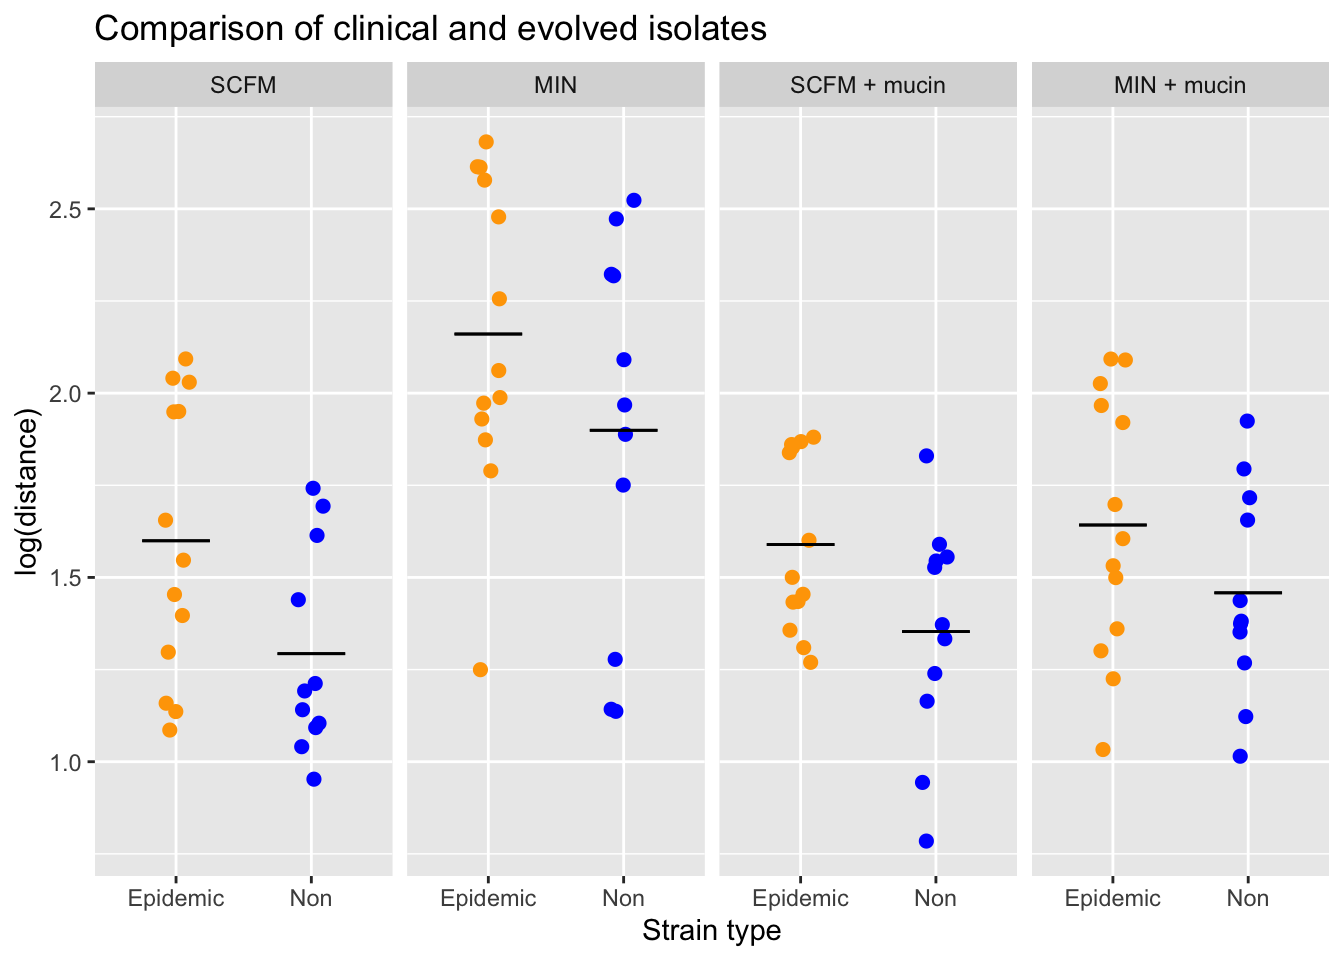
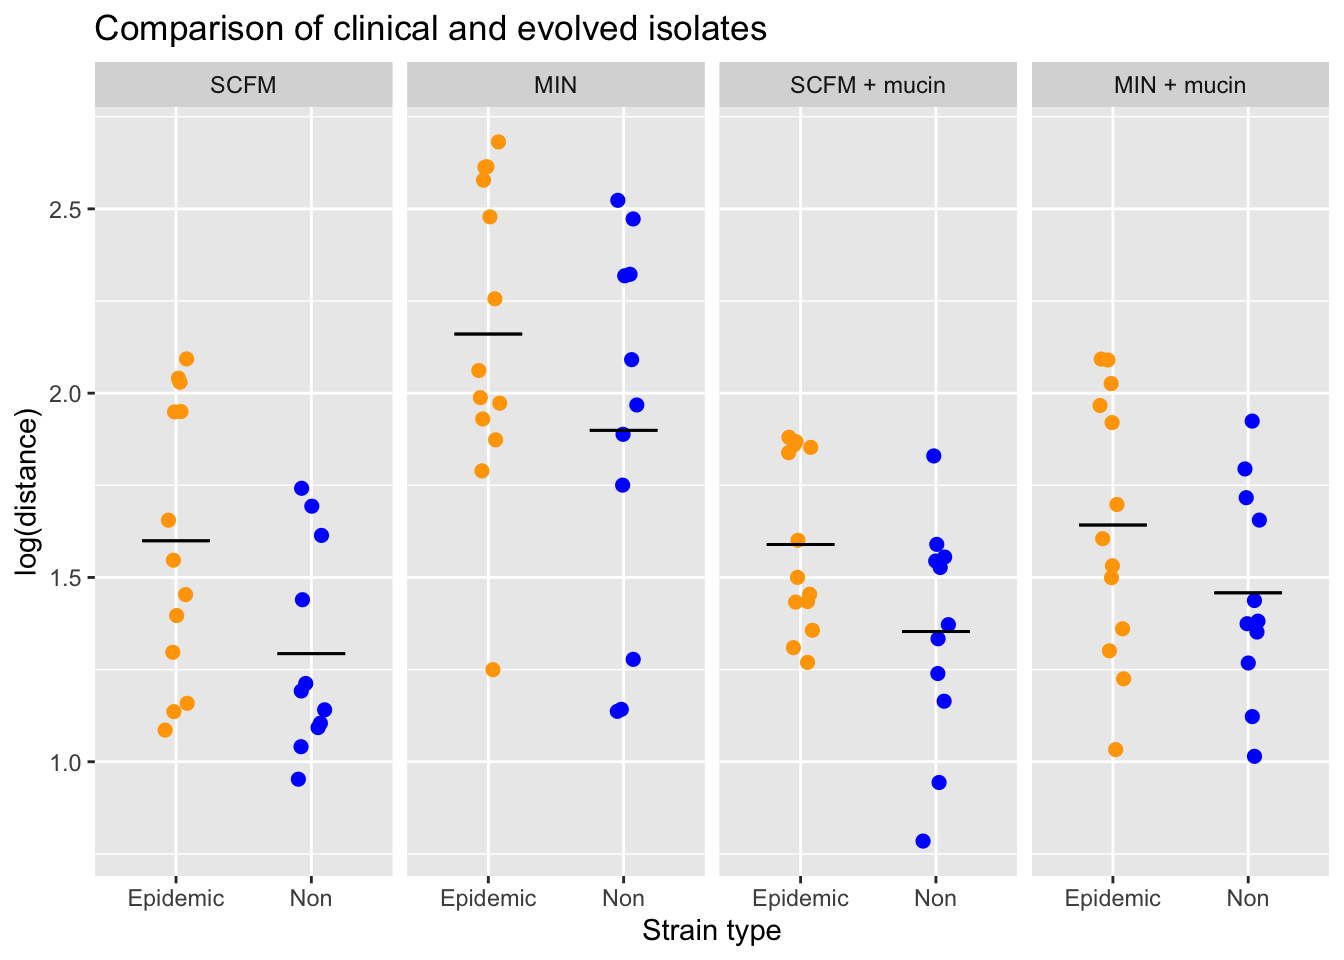
add bonus project

diff --git a/10-bonusproject.html b/10-bonusproject.html
@@ -337,11 +337,13 @@ $(document).ready(function () {
 <h1>Introduction</h1>
 <p>This data set comes from a short-term evolution experiment investigating adaptation of <em>Pseudomonas aeruginosa</em> to cystic fibrosis lung-like conditions. Several populations were evolved under four different environmental conditions and then compared to a set of strains isolated from clinical samples (ie. strains that had evolved in the human lung).</p>
 <p>You can find the data set <a href="https://www.dropbox.com/s/fflcupr2erl4f36/pa_clinical_distance.csv?dl=0">here</a> and you can read more about the experimental setup <a href="https://doi.org/10.1073/pnas.1721270115">here</a>.</p>
+<p><br></p>
 </div>
 <div id="task-1---plot" class="section level1">
 <h1>Task 1 - Plot</h1>
 <p>Use this data set to produce the plot below.</p>
 <p><img src="10-bonusproject_files/figure-html/unnamed-chunk-1-1.png" width="672" /></p>
+<p><br></p>
 </div>
 <div id="task-2---fancy-plot" class="section level1">
 <h1>Task 2 - Fancy plot</h1>
@@ -356,7 +358,9 @@ $(document).ready(function () {
 <li>remove the legend</li>
 <li>add black bars to signify means</li>
 <li>change axes labels</li>
+<li>jitter points</li>
 </ul>
+<p><br></p>
 </div>
 <div id="task-3---stats" class="section level1">
 <h1>Task 3 - Stats</h1>
